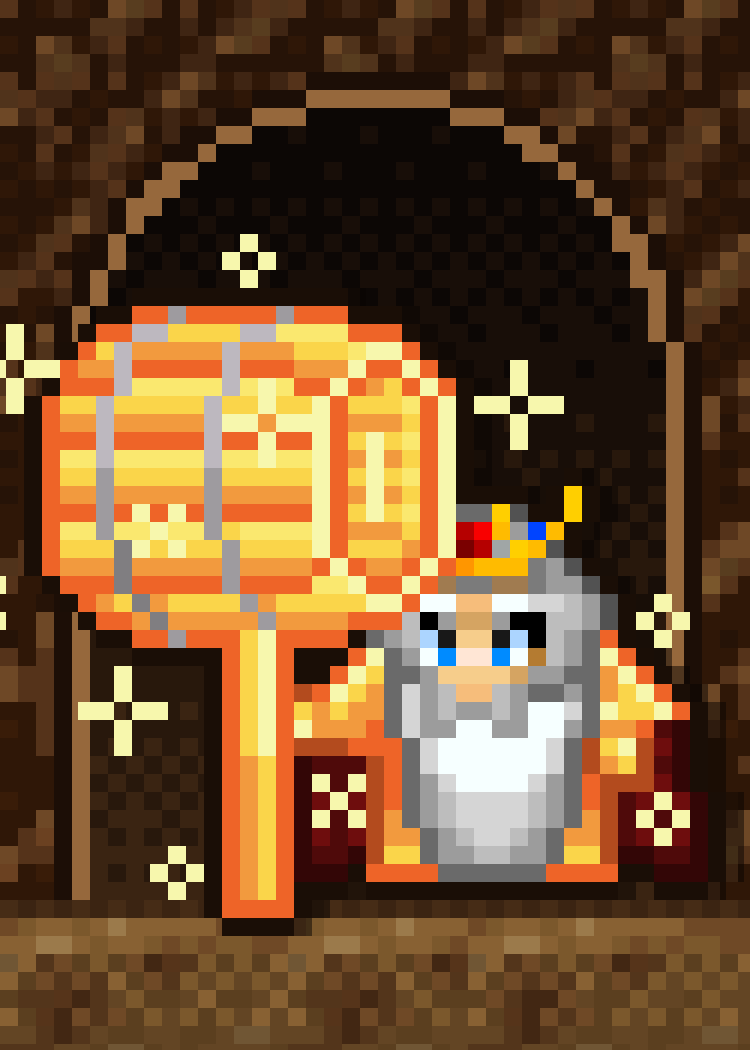
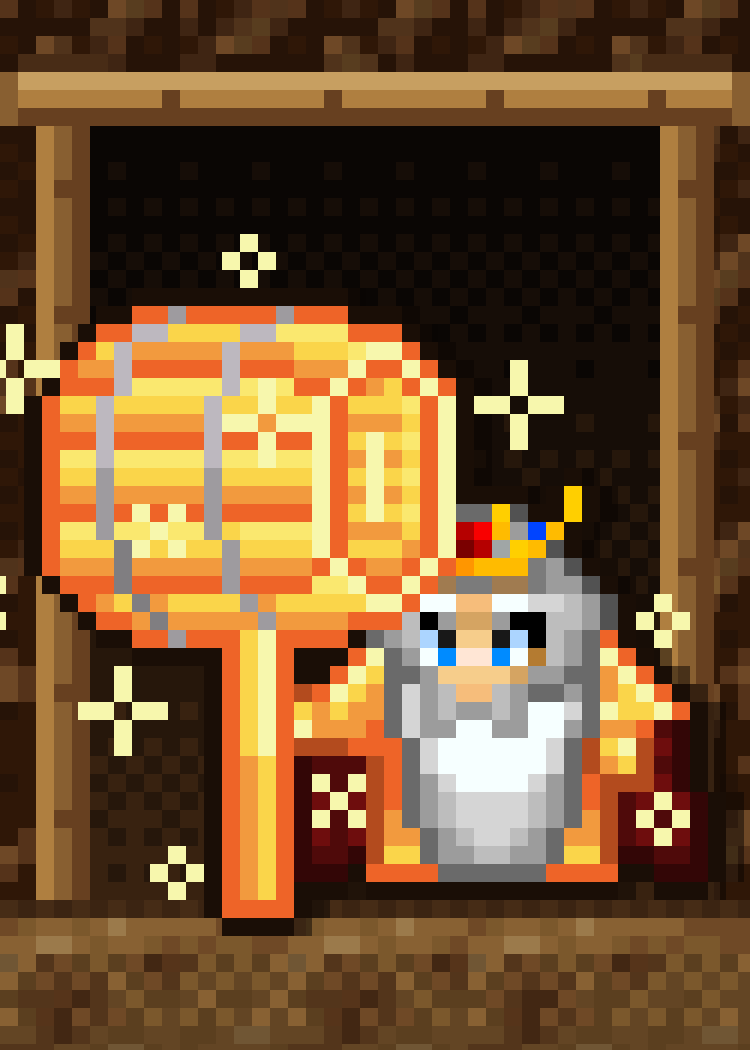
Sleeve-Entwürfe Runde 3b: Block C überarbeitet (14–19) + neu 53 Dragon Pilot; Zwischenstand
Claude-Session: https://claude.ai/code/session_01TEnvTzH2xD44R6Unjv7vDo

diff --git a/data/sleeve-proposals/runde3/generator/s16_dwarf_king.py b/data/sleeve-proposals/runde3/generator/s16_dwarf_king.py
@@ -1,21 +1,18 @@
 # -*- coding: utf-8 -*-
 """Sleeve 16 – Der Zwergenkönig vor seinem Stollen, überarbeitet für Runde 3b.
 
-Güldefaber, der König der Zwerge, steht groß im Vordergrund neben seinem aufrecht gestellten,
-funkelnden Fass-Hammer (Anordnung wie auf seiner Karte), daneben ein Fass. Weit hinter ihm führt
-der Pfad zwischen Wiesen und Bäumen zum dunklen Stolleneingang in der Felswand – der Blick geht
-über den König hinweg in die Tiefe (Aufbau wie „Count of the Deep“).
+Güldefaber, der König der Zwerge, steht groß vor dem holzverschalten Eingang seines Stollens,
+neben ihm – wie auf seiner Karte – der aufrecht gestellte, funkelnde Fass-Hammer. Hinter ihm führt
+der Stollen ins Dunkel; Felswand und Boden stammen aus der Kulisse seiner Karte.
 
-Skalierung / Tiefenstaffelung:
-  Vordergrund 5×: König, Fass-Hammer, Glitzer, Fass (alle auf derselben Ebene, alle 5×)
-  Hintergrund 2×: Felswand mit Stolleneingang, Pfad, Bäume (weit hinten, durch Abdunkeln und
-                  Dunst zusätzlich zurückgesetzt). Der König wird unten vom Bildrand angeschnitten,
-                  sein Standpunkt liegt also vor der gesamten Kulisse.
-  Die frühere Garde (Dragon Pilots 4× neben dem 7×-König) ist entfallen (Regel A).
+Einheitliche Pixelgröße: ALLES 6× (König, Fass-Hammer, Glitzer, Felswand- und Bodentextur,
+Holzausbau und Stollen-Dithering). Die frühere Garde (Dragon Pilots 4× neben dem 7×-König) und der
+4×-Hammer über dem König sind entfallen (Regel A); der Hammer steht jetzt wie auf der Karte neben ihm.
 
 Quellen (Motive.xcf, Karte „Güldefaber, the King of Dwarfs“, Szene 262):
-  König = Ebene 266 „Güldefaber“; Fass-Hammer + Fass = Ebene 265; Glitzer = Ebene 264
-  Kulisse = Ebene 874 „Ebene #264“ (Felswand mit Stolleneingang, Pfad, Wiese, Bäume)
+  König = Ebene 266 „Güldefaber“; Fass-Hammer = Ebene 265; Glitzer = Ebene 264
+  Felswand + Boden = Ebene 874 „Ebene #264“ (Kulisse der Karte); Holzausbau selbst gezeichnet in
+  den Holzfarben der Fässer aus Ebene 265
 Vollständigkeit (Regel B): fig_check gegen Szene 262 – alle sichtbaren Figurpixel stammen aus
 264/265/266; das graue Stück hinter der Krone gehört zur Felswand (874), nicht zur Figur.
 """
@@ -34,26 +31,32 @@ rock = tex('c16_rock', M, 874, (282, 152, 314, 200))       # Felswand (Kluftfels
 dirt = tex('c16_dirt', M, 874, (320, 170, 346, 181))      # Pfad/Stollenboden, 26×11
 
 FLOOR = 300                                               # Standlinie (Canvas-y, Vielfaches von 6)
-# ---------- Felswand 6× und dunkle Stollennische (Rundbogen) im 6×-Raster
+# ---------- Felswand 6× mit Stolleneingang: dunkler Stollen, Holzausbau (Stempel + Kappe) in den
+# Holzfarben der Fässer aus Ebene 265, alles im 6×-Raster
 tile_fill(cv, rock, 0, 0, W, FLOOR, k=K, ox=2 * K)
-shade_rows(cv, 0, FLOOR, 0.45, 0.2, (20, 10, 6), k=K)
-NX, NTOP = W // 2, 36                                    # Nischenmitte, Scheitel
-NR = 96
-def niche(x, y, pad=0):
-    cy = NTOP + NR
-    if y >= cy: return abs(x + K / 2 - NX) < NR + pad
-    return math.hypot(x + K / 2 - NX, y + K / 2 - cy) < NR + pad
-for y in range(0, FLOOR, K):
-    for x in range(0, W, K):
-        if niche(x, y):
-            t = min(1, max(0, (y - NTOP) / (FLOOR - NTOP)))
-            c = [(12, 7, 5), (24, 14, 8), (40, 24, 12), (58, 36, 18)]
-            i = int(t * 3 + BAYER4[(y // K) % 4, (x // K) % 4] * 0.999)
-            cv.rect(x, y, x + K, y + K, c[min(i, 3)])
-        elif niche(x, y, K):
-            cv.rect(x, y, x + K, y + K, (150, 104, 60))           # Bogenkante (Licht)
-        elif niche(x, y, 2 * K):
-            cv.rect(x, y, x + K, y + K, (28, 14, 6))              # Fuge
+shade_rows(cv, 0, FLOOR, 0.45, 0.25, (20, 10, 6), k=K)
+WD = [(72, 44, 22), (103, 64, 32), (136, 95, 49), (175, 127, 64), (199, 159, 97)]   # Holz dunkel→hell
+OX0, OX1, OTOP = 5 * K, W - 5 * K, 7 * K                  # Stollenöffnung
+for y in range(OTOP, FLOOR, K):                            # Stollen: dunkel, nach hinten schwarz
+    for x in range(OX0, OX1, K):
+        t = (y - OTOP) / (FLOOR - OTOP)
+        c = [(10, 6, 4), (22, 13, 7), (38, 23, 11), (56, 34, 16)]
+        i = int(t * 3 + BAYER4[(y // K) % 4, (x // K) % 4] * 0.999)
+        cv.rect(x, y, x + K, y + K, c[min(i, 3)])
+def post(x0):                                              # Stempel: 3 Zellen breit
+    for y in range(OTOP, FLOOR, K):
+        cv.rect(x0, y, x0 + K, y + K, WD[3])
+        cv.rect(x0 + K, y, x0 + 2 * K, y + K, WD[2])
+        cv.rect(x0 + 2 * K, y, x0 + 3 * K, y + K, WD[1])
+        if (y // K) % 7 == 3: cv.rect(x0 + K, y, x0 + 2 * K, y + K, WD[1])     # Astloch
+    cv.rect(x0 - K, OTOP - 4 * K, x0 + 4 * K, OTOP - 3 * K, WD[0])           # Schatten unter der Kappe
+post(OX0 - 3 * K); post(OX1)
+for x in range(OX0 - 5 * K, OX1 + 5 * K, K):               # Kappe (Querbalken), 3 Zellen hoch
+    cv.rect(x, OTOP - 3 * K, x + K, OTOP - 2 * K, WD[4])
+    cv.rect(x, OTOP - 2 * K, x + K, OTOP - K, WD[3] if (x // K) % 9 else WD[1])
+    cv.rect(x, OTOP - K, x + K, OTOP, WD[1])
+for xe in (OX0 - 5 * K, OX1 + 4 * K):                      # Balkenenden (Hirnholz)
+    cv.rect(xe, OTOP - 3 * K, xe + K, OTOP, WD[2])
 # Boden 6×
 tile_fill(cv, dirt, 0, FLOOR, W, H, k=K)
 cv.rect(0, FLOOR, W, FLOOR + K, (70, 44, 22))

diff --git a/data/sleeve-proposals/runde3/generator/s59_qinglong_storm.py b/data/sleeve-proposals/runde3/generator/s59_qinglong_storm.py
@@ -1,0 +1,68 @@
+# -*- coding: utf-8 -*-
+"""Sleeve 59 – „Qinglong Storm“ (Runde 3b, neu): Der Himmelsdrache Qinglong (Karte „Cardinal Beast Qinglong“)
+windet sich aus einer schwarzen Gewitterwolke herab, um ihn zucken blaue Blitze, ein goldener Blitz schlägt neben
+seinem Kopf ein; unten ein Wolkenmeer im Mondlicht.
+
+Skalierung (Regel A): ALLES 3× – Drache, Gewitterwolke, Blitze, Wolkenmeer. Himmel Dither-Verlauf.
+
+Vollständigkeit (Regel B): In der Kartenszene „Sichtbar #251“ [149] besteht der Drache aus Körper [1523] + Kopf [1524]
+(match 1.0/0.97, Blitze [1522]/[1525] davor). Ebene „QINLONG #1“ [1526] ist derselbe Drache vollständig
+(Kopf + Körper, mit geschlossener Kontur) und wird verwendet; der Schwanz verschwindet in der Wolke.
+
+Quellen (Motive.xcf): 1526 „QINLONG #1“ (Drache), 1527 „QINLONG“ (Gewitterwolke), 1525 „QINLONG #5“ (blaue Blitze),
+1522 „QINLONG #3“ (goldener Blitz), 1520 „Ebene #652“ / 1510 „Ebene #653“ (Wolken).
+"""
+import math
+from g_util import *
+
+B = 'Motive'
+W2, H2 = 250, 350
+K = 3
+cv = Canvas(W2, H2)
+rng = np.random.RandomState(59)
+
+# ---------------------------------------------------------------- Nachthimmel (wie in der Kartenszene: Marineblau)
+c0, c1 = np.array((4, 10, 40)), np.array((20, 44, 110))
+for y in range(H2):
+    t = min(1.0, y / 300)
+    for x in range(W2):
+        lv = math.floor(t * 5 + BAYER4[y % 4, x % 4]) / 5
+        cv.a[y, x] = (c0 * (1 - lv) + c1 * lv).astype(np.uint8)
+
+drag = lay(B, 1526)
+cloud = lay(B, 1527)
+bolts = lay(B, 1525)
+gold = lay(B, 1522)
+wc1, wc2 = lay(B, 1520), lay(B, 1510)
+for n, s in dict(dragon=drag, cloud=cloud, bolts=bolts, gold=gold).items():
+    Image.fromarray(s).save(os.path.join(xcfkit.CACHE, 'g59_%s.png' % n))
+
+# ---------------------------------------------------------------- Wolkenmeer unten (3×), vom Mond angestrahlt
+for s, x, y in ((wc1, -40, 300), (flip(wc1), 90, 292), (wc2, -10, 316), (flip(wc2), 110, 324),
+                (wc1, 30, 330), (flip(wc1), 150, 336)):
+    u = up(s, K)
+    cv.paste(tint(u, (150, 170, 220), 0.35), x, y)
+cv.rect(0, 344, W2, H2, (150, 166, 210))
+
+# ---------------------------------------------------------------- Blitze hinter dem Drachen (3×)
+Bl = up(bolts, K)
+cv.paste(Bl, 12, 70)
+cv.paste(flip(Bl)[:, :120], 150, 120)
+
+# ---------------------------------------------------------------- Drache (3×): Schwanz oben rechts in der Wolke
+D = up(drag, K)
+dx, dy = 20, 78
+cv.paste(silhouette(D, (0, 0, 20)), dx + 4, dy + 4, alpha=0.4)
+cv.paste(D, dx, dy)
+
+# goldener Blitz: aus der Wolke herab, schlägt links neben dem Kopf ein
+G = up(gold, K)
+cv.paste(G, 4, 40)
+
+# ---------------------------------------------------------------- Gewitterwolke oben (3×), verschluckt den Schwanz
+C = up(cloud, K)                                   # 402×117
+cv.paste(C, W2 - C.shape[1] + 110, -34)
+cv.paste(flip(C), -150, -52)
+
+vignette(cv, 0.35, 0.6)
+print(save(cv, '59_qinglong_storm.png'))

diff --git a/data/sleeve-proposals/runde3/generator/s58_mammoth_trek.py b/data/sleeve-proposals/runde3/generator/s58_mammoth_trek.py
@@ -1,9 +1,8 @@
 # -*- coding: utf-8 -*-
 """Sleeve 58 – „Mammoth Trek“ (Runde 3b, neu): Eiszeit. Ein Wollmammut stapft im Schneetreiben durch die
-Schneeebene und zieht eine Spur tiefer Fußstapfen hinter sich her, die sich bis zum Schneekamm zurückverfolgen
-lässt; am Horizont schneebedeckte Berge im Abendlicht.
+Schneeebene, vorne eine Schneewehe, am Horizont schneebedeckte Berge im Abendlicht.
 
-Skalierung (Regel A): Mammut, Schneefeld, Fußspuren, Schneeflocken 3×; Berge als Silhouette im 3×-Raster, Himmel Dither-Verlauf (selbst erstellt).
+Skalierung (Regel A): Mammut, Schneefeld, Schneewehe, Schneeflocken 3×; Berge als Silhouette im 3×-Raster, Himmel Dither-Verlauf (selbst erstellt).
 
 Vollständigkeit (Regel B): Ebene „Ebene #367“ [773] ist das ganze Mammut; in der Kartenszene „Sichtbar #51“ [771]
 liegt darüber nur die Bewegungsunschärfe „Whoolmoth“ [774] (Angriffs-Effekt) – ohne sie ist die Figur vollständig.
@@ -62,20 +61,9 @@ for i in range(W2 // K + 1):
 mam = lay(B, 773)
 Image.fromarray(mam).save(os.path.join(xcfkit.CACHE, 'g58_mammoth.png'))
 
-# ---------------------------------------------------------------- Mammut vorne (3×) + Fußspuren
+# ---------------------------------------------------------------- Mammut vorne (3×) 
 M = up(mam, K)
 mx, feet = 28, 300
-# Spur: Fußstapfen (3×3 Blöcke) von rechts hinten zum Mammut
-# Spur zieht sich vom Kamm (rechts hinten) in Schlangenlinie bis zu den Hinterbeinen
-pts = []
-for j in range(14):
-    t = j / 13
-    fx = int(214 + 22 * math.sin(t * 5.0) + 20 * t) // K * K
-    fy = int(HOR + 20 + t * 104) // K * K
-    pts.append((fx + (K if j % 2 else -K), fy))
-for fx, fy in pts:
-    cv.rect(fx, fy, fx + 2 * K, fy + K, (126, 140, 190))
-    cv.rect(fx, fy + K, fx + 2 * K, fy + 2 * K, (170, 182, 222))
 # Schatten unter dem Mammut (flach, 3×-Raster)
 for i in range(-26, 28):
     w = int(4 * math.sqrt(max(0.0, 1 - (i / 28) ** 2)))
@@ -87,10 +75,18 @@ for fx in range(mx + 6, mx + M.shape[1] - 6, 6):
     if cv.a[feet - 2, fx].sum() < 400:
         cv.rect(fx - K, feet - K, fx + K, feet, (232, 238, 250))
 
+# Schneewehe im Vordergrund (3×-Raster), verdeckt die Fußsohlen nicht
+for i in range(W2 // K + 1):
+    top = 318 + int(round(5 * math.sin(i / 6.0 + 1.0) + 3 * math.sin(i / 2.7))) // 1 * 1
+    top = top // K * K
+    cv.rect(i * K, top, i * K + K, H2, (246, 248, 255))
+    cv.rect(i * K, top, i * K + K, top + K, (255, 255, 255))
+    cv.rect(i * K, top + 2 * K, i * K + K, top + 3 * K, (226, 232, 248))
+
 # ---------------------------------------------------------------- Schneetreiben (3×3-Flocken, schräg)
 for i in range(70):
     x, y = rng.randint(0, W2 // K) * K, rng.randint(0, H2 // K) * K
     c = (250, 250, 255) if rng.rand() < 0.7 else (214, 220, 240)
     cv.rect(x, y, x + K, y + K, c)
-vignette(cv, 0.2, 0.7)
+
 print(save(cv, '58_mammoth_trek.png'))

diff --git a/data/sleeve-proposals/runde3/generator/s14_lava_diver.py b/data/sleeve-proposals/runde3/generator/s14_lava_diver.py
@@ -4,15 +4,16 @@
 Querschnitt durch einen Lavasee: oben links steht der Steam Dwarf Brewer mit seinem angezapften
 Fass auf einem Krustenvorsprung über der Glut und wartet; unten stapft der Steam Dwarf Diver über
 den Seegrund. Aus seinen Helmrohren steigen Dampfblasen durch die Lava nach oben und brechen an der
-Oberfläche als Dampfsäulen hervor, die aus dem Bild hinausschießen.
+Oberfläche als Dampfsäule hervor, die aus dem Bild hinausschießt. (Der frühere Miner rechts oben
+ist entfallen – bei einheitlicher 4×-Skalierung hätte er den Aufbau überladen.)
 
 Einheitliche Pixelgröße: ALLES 4× (Figuren, Fass, Dampf, Lava-, Krusten- und Felstexturen,
-selbst gezeichnete Blasen) – Querschnitt = eine Bildebene.
+selbst gezeichnete Blasen, Dithering der Verläufe im 4×-Raster) – Querschnitt = eine Bildebene.
 
 Quellen (MotiveSteamDwarfs.xcf):
   Diver   = Ebenen 420 (nur Helm-Teil, Box), 421–424          (Karte „Steam Dwarf Diver“, Szene 402)
   Brewer  = Ebenen 440–442 + liegendes Fass aus Ebene 443     (Karte „Steam Dwarf Brewer“, Szene 15)
-  Dampf   = Ebene 414 „STEAM“ (Doppelsäule, untere Hälfte)
+  Dampf   = Ebene 415 (Dampfsäule, 4×; nur der untere Teil ragt ins Bild)
   Texturen = Lava + Felsnadeln (Ebene 444), Kruste + Felswand (Ebene 445)
   Blasen  = selbst gezeichnet (Palette aus Lava/Dampf)
 Vollständigkeit (Regel B) mit c_util.fig_check gegen die Szenen 402 bzw. 15 geprüft.

diff --git a/data/sleeve-proposals/runde3/notes_C.md b/data/sleeve-proposals/runde3/notes_C.md
@@ -1,12 +1,20 @@
-# Block C – Sleeves 14–19 (Steam Dwarfs / Russland)
+# Block C – Sleeves 14–19 + 53 (Steam Dwarfs / Russland), Stand Runde 3b
 
-NN | Titel | Idee | Quellen
----|---|---|---
-14 | Lava Diver | Querschnitt durch einen Lavasee: oben auf Krustenvorsprüngen Brewer (mit Fässern) und Miner (Bohrer steckt im Fels), unten stapft der Diver (5×) über den Grund; seine Dampfsäule steigt durch die Lava und bricht an der Oberfläche als Wolke hervor | MotiveSteamDwarfs: Diver 420–424, Brewer 440–442, Fässer 443, Miner 437–439, Dampf 414/415, Texturen 444/445
-15 | Steam Crest | Wappen ohne Text: goldener Dampf-Panzer des Engineer (6×) als Schildfigur, zwei gespiegelte Mechaniker mit Schraubenschlüssel als Schildhalter, deren Dampfsäulen die Helmdecke bilden; Strahlenkranz in Glutfarben, Lava-Sockel | MotiveSteamDwarfs: Engineer 419, Mechaniker 417+418, Dampf 415, Lava/Kruste 444/445
-16 | Dwarf King | Hofporträt: Güldefaber (7×) als Brustbild vor der Felswand seines Stollens, darüber in der dunklen Thronnische sein goldener Fass-Hammer mit Glitzer, links/rechts zwei Dragon Pilots als Garde auf Felssimsen, Dampf aus ihren Drachenhelmen | Motive: Güldefaber 266, Hammer/Fässer 265, Glitzer 264, Felswand 874; MotiveSteamDwarfs: Dragon Pilot 429, Dampf 415
-17 | Hydra Duel | Blick über die Schulter des Bärenreiters (von hinten, 4×) am verschneiten Ufer auf die dreiköpfige Nothern Hydra (3×), die aus dem Nordmeer steigt; Schneegestöber | MotiveRussia: Bärenreiter-Rücken 76, Nothern Hydra 9, Meer/Ufer/Wald 221, Schneeflocken 64
-18 | White Parade | Stellin grüßt im Vordergrund, zwei Kolonnen Schneemann-Bannerträger marschieren wie Matrjoschkas gestaffelt (1×–4×) entlang eines Eisweges vom Eiskristall-Wall heran, Heli-Trooper darüber | MotiveRussia: Stellin 142, Bannerträger 91, Heli-Trooper 12/37, Eiswall/Schnee/Schraffur aus Ebene 230
-19 | Dream Tower | Matrjoschka-Turm: die Dream Landers stehen einander auf den Köpfen und werden nach oben 5×→1× kleiner (Antonia, Vullary, Rafflesia, Smugbeth, Clausss), vor verschneitem Nadelwald mit fahlem Lichtkranz | MotiveRussia: MONIA 218, MARY 215, RAFFLESIA 228, SMUGBETH 204, CLAUSSS 210, Wald 221, Schneeflocken 64
+NN | Titel | Idee | Quellen | Skalierung
+---|---|---|---|---
+14 | Lava Diver | Querschnitt durch einen Lavasee: oben links wartet der Brewer mit angezapftem Fass auf dem Krustenvorsprung, unten stapft der Diver über den Seegrund; Dampfblasen aus seinen Helmrohren steigen auf und brechen rechts als Dampfsäule aus der Oberfläche (Miner entfernt) | MotiveSteamDwarfs: Diver 420(Box)+421–424, Brewer 440–442 + Fass aus 443, Dampf 415, Lava/Felsnadel 444, Kruste/Felswand 445; Blasen selbst gezeichnet | Alles 4× (Figuren, Dampf, Texturen, Blasen, Dithering) – eine Bildebene
+15 | Steam Crest | Wappen ohne Text: goldener Dampf-Panzer des Engineer vor einem gevierten Schild (Lava/Stollenfels, Goldrand), zwei gespiegelte Mechaniker als Schildhalter schrauben (wie auf der Karte) an den Panzerbeinen – nichts verdeckt die Beine; ihre Dampfsäulen bilden die Helmdecke; Strahlenkranz geht vom Schild aus, Krustenufer + Lava als Sockel | MotiveSteamDwarfs: Engineer 419, Mechaniker 417+418, Dampf 415, Lava/Kruste/Fels 444/445; Schild + Strahlen selbst gezeichnet | Alles 3× (Figuren, Dampf, Schild, Strahlen-Dithering, Texturen)
+16 | Dwarf King | Güldefaber steht vor dem holzverschalten Eingang seines Stollens, daneben – wie auf seiner Karte – der aufrecht gestellte, funkelnde Fass-Hammer; Garde und schwebender Hammer entfernt | Motive: Güldefaber 266, Fass-Hammer 265, Glitzer 264, Felswand/Boden 874; Holzausbau selbst gezeichnet (Holzfarben der Fässer aus 265) | Alles 6× (König, Hammer, Glitzer, Fels, Boden, Holz, Stollen-Dithering)
+17 | Hydra Duel | Blick über die Schulter des Bärenreiters (von hinten) auf der Eiskante des Nordmeers; vor ihm steigt die dreiköpfige Nothern Hydra aus dem dunklen Wasser, Schaumkranz, Schneeflocken | MotiveRussia: Bärenreiter-Rücken 76, Nothern Hydra 9, Meer/Eiskante/Schnee als Kacheln aus 221; Schaum + Flocken selbst gezeichnet | Vordergrund 4× (Bär, Eiskante, Schneefeld, Flocken), Mittelgrund 3× (Hydra, Meer, Schaum); 2×-Tannen neben dem Bären entfernt
+18 | White Parade | Stellin nimmt im Vordergrund die Parade ab; hinter ihm marschieren zwei Kolonnen Schneemann-Soldaten der White Army (Aufstellung wie auf der Karte „The White Army“) vor dem Eiskristall-Wall mit leuchtendem Eisobelisk, Heli-Trooper darüber (statt 1×–4×-Staffelung) | MotiveRussia: Stellin 142, Soldat aus 224 (Kopf oberster + Fuß unterster Soldat zusammengesetzt), Heli-Trooper 12, Eiswall/Obelisk/Schnee aus 230 | Vordergrund 6× (Stellin), Hintergrund 3× (Soldaten, Helis, Wall, Schnee, Himmel-Dithering)
+19 | Poison Card | Neu gedacht (ersetzt „Dream Tower“: 5×→1×-Stapel verstieß gegen Regel A): Doppelkopf-Hofkarte ohne Text – unten Rafflesia blühend (roter Blütenhut) im violetten Giftsumpf, oben um 180° gedreht ihre welke Traumgestalt im dunklen Traumsumpf; goldene Diagonale, Giftblasen, Funkelsterne, Kartenrahmen | MotiveRussia: Rafflesia 229 (Kartenbild) und 228 „RAFFLESIA“, Funkelstern 217; Hintergründe/Blasen/Rahmen selbst gezeichnet | Alles 5× (beide Figuren, Sterne, Blasen, Dithering, Rahmen, Trennlinie)
+53 | Dragon Pilot | Der Steam Dwarf Dragon Pilot steht breitbeinig im Mund einer Lavahöhle, Dampfwölkchen steigen aus dem Drachenkopf; durch die glutbeleuchtete Felsöffnung geht der Blick weit hinaus auf Glutdunst, ferne Felsrücken und den Lavasee mit Felsnadel-Silhouetten | MotiveSteamDwarfs: Dragon Pilot 429, Dampffarben aus 427, Lavakachel + Felsnadel 444, Höhlenfels/Kruste 445; Dunst, Felsrücken, Dampfwölkchen selbst gezeichnet | Vordergrund 4× (Pilot, Dampf, Höhlenfels, Boden, Glutkanten), Hintergrund 2× (Dunst, Felsrücken, Lavasee, Felsnadeln)
 
-Gemeinsame Hilfen: `generator/c_util.py` (Texturausschnitte, Kacheln, Dither-Verläufe). Sprite-Cache: `generator/sprites3/c14_*…c19_*`.
+Gemeinsame Hilfen: `generator/c_util.py` (Texturausschnitte, Kacheln, Dither-Verläufe im k-Raster, `figure()` zum
+Zusammensetzen aus mehreren Ebenen/Boxen, `put()` mit Kontur/Schatten in Sprite-Pixelgröße, `fig_check()` für die
+Vollständigkeitsprüfung nach Regel B gegen die „Sichtbar“-Szenen). Sprite-Cache: `generator/sprites3/c14_*…c19_*, c53_*`.
+
+Regel-B-Prüfung (fig_check gegen die Szenen): Diver (402), Brewer inkl. Zapfhahn 442 + Fass (15), Engineer + Mechaniker
+inkl. Schraubenschlüssel 417 (400), Miner (435, nicht mehr verwendet), Dragon Pilot (402), Güldefaber + Hammer + Glitzer (262),
+Bärenreiter (40), Hydra inkl. Hörnerbögen (1), Rafflesia 228 (144), Heli-Trooper (1) – keine fehlenden Ebenen; Stellin 142 mit
+der Karten-Variante in 224 verglichen (eigene, vollständige Zeichnung).
